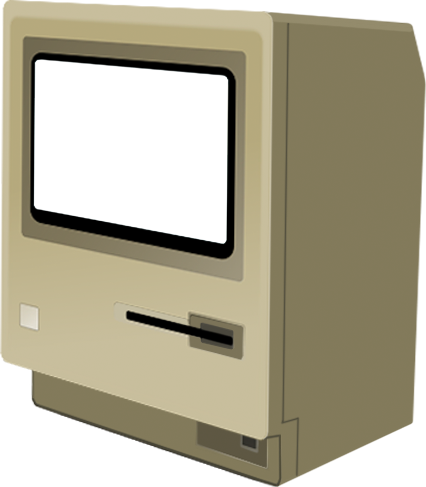
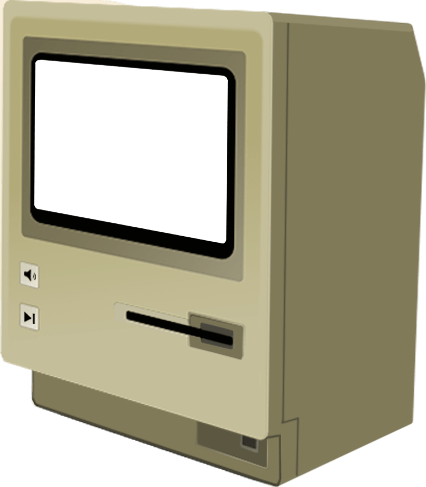
Working on mac

diff --git a/src/Pages/Home/Home.js b/src/Pages/Home/Home.js
@@ -15,6 +15,7 @@ export class Home extends PureComponent {
     this.state = {
       videoId: "662JyNLVpxE",
       player: null,
+      muteButtonText: "Unmute Video"
     };
 
     this.onReady = this.onReady.bind(this);
@@ -31,17 +32,33 @@ export class Home extends PureComponent {
   }
 
   onReady(event) {
-    //event.target.mute();
-    event.target.setLoop(true)
-    event.target.setShuffle(true)
+    event.target.mute();
+    event.target.setLoop(true);
+    event.target.setShuffle(true);
     event.target.nextVideo();
     this.setState({
       player: event.target,
     });
   }
 
-  render() {
+  onNextVideo = () => {
+    this.state.player.nextVideo();
+  }
 
+  onMuteVideo = () => {
+
+    this.setState({
+      muteButtonText: this.state.player.isMuted() ? 'Mute Video' : 'Unmute Video'
+    })
+
+    if (this.state.player.isMuted()) {
+      this.state.player.unMute();
+    } else {
+      this.state.player.mute();
+    }
+  }
+
+  render() {
     const opts = {
       height: '360',
       width: '640',
@@ -79,11 +96,13 @@ export class Home extends PureComponent {
           <div className="macWrapper">
             <img className="mac" src="mac.png" alt="Vintage Macintosh"/>
             <YouTube
-              //videoId='Ag6H1e1rXJ0'
+              videoId='nxxSIX3fmmo'
               onReady={this.onReady}
               opts={opts}
               className="video"
             />
+            <div className="muteButton" title={this.state.muteButtonText} onClick={this.onMuteVideo}/>
+            <div className="nextButton" title="Next Video" onClick={this.onNextVideo}/>
           </div>
         </div>
       </div>

diff --git a/src/Pages/Home/styles.css b/src/Pages/Home/styles.css
@@ -86,13 +86,33 @@ dark blue: 203c40
 }
 
 .video {
-    -webkit-transform: rotate(2deg) skew(0deg, 3deg);
-    -ms-transform: rotate(2deg) skew(0deg, 3deg);
-    transform: rotate(2deg) skew(0deg, 3deg);
-    width: 170px;
-    height: 170px;
-    position: absolute;
-    left: 4px;
-    top: 11px;
-    z-index: 0;
+  -webkit-transform: rotate(2deg) skew(0deg, 3deg);
+  -ms-transform: rotate(2deg) skew(0deg, 3deg);
+  transform: rotate(2deg) skew(0deg, 3deg);
+  width: 200px;
+  height: 190px;
+  position: absolute;
+  left: -15px;
+  top: 5px;
+  z-index: 0;
+}
+
+.muteButton {
+  width: 35px;
+  height: 35px;
+  position: absolute;
+  top: 165px;
+  left: 4px;
+  cursor: pointer;
+  z-index: 200;
+}
+
+.nextButton {
+  width: 35px;
+  height: 35px;
+  position: absolute;
+  top: 200px;
+  left: 4px;
+  cursor: pointer;
+  z-index: 200;
 }
